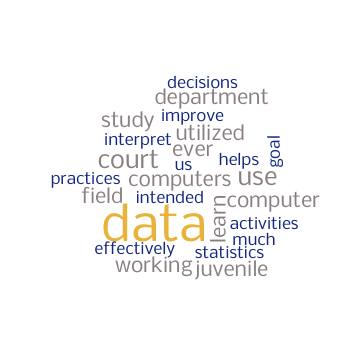
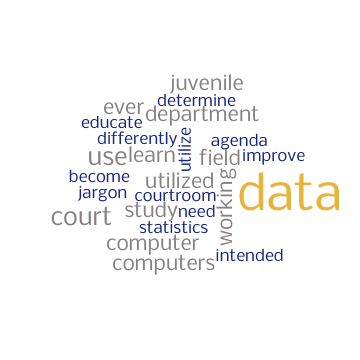
33% complete with base renovation

Changed region(s): [[0.1222, 0.2139, 0.9472, 0.7944]]

diff --git a/slides_on_data.html b/slides_on_data.html
@@ -16,34 +16,12 @@
 class: title-slide
 class: inverse, center
 # Data Literacy for Court Staff
-## OR Data 101 for Court Staff
+## Or Data 101: An E-Learning for Juvenile Probation Staff
 
 
 .center[*Sit back, relax. The training is about to begin!*]
 
-.center[&lt;iframe width="560" height="315" src="https://www.youtube.com/embed/videoseries?list=PLlcpS_fiQECCWSmK5Uom236PXE6hEVz22" frameborder="0" allow="autoplay; encrypted-media" allowfullscreen&gt;&lt;/iframe&gt;]
 
-.bottom[.right[Thursday, October 04 2018]]
-
-
-???
-YouTube is for set up me, really.
-# Materials needed for in-person training:
-* paper for notes/exercises
-* 5 + attendees copy of bad spreadsheet data
-
----
-class: inverse
-
-# Icebreaker Activity
-* Line up according to birthday: Month, Day (no need for age)
-
-* No VERBAL or WRITTEN communication allowed
-
-.center[![:scale 55%](imgs/icebreaker.jpg)]
-???
-1) Discuss importance of communication
-2) lighten the mood
 ---
 .center[#Learning Objectives:]
 
@@ -58,10 +36,7 @@ class: inverse
 *  What we can do to improve our Data Quality
 
 *  To discover what you want to learn next
-???
-Icebreaker Exercise instructions: 
-* Have everyone line up by birthday, descending, without speaking
-* the point is to illustrate how critical language is to easy exchange of knowledge 
+
 ---
 .center[# Expectations]
 .center[![](imgs/schoolHouseRock.gif)]
@@ -70,50 +45,68 @@ Icebreaker Exercise instructions:
 .bottom[.center[What do **you** want to learn today?]]
 ---
 class: center
+# Your Registration Data&lt;sup&gt;1&lt;/sup&gt;
+
+&lt;img src="slides_on_data_files/figure-html/word_cloud-1.png" style="display: block; margin: auto;" /&gt;
+
+.footnote[
+#####[1]From a total of 12 registrants.]
+
+???
+* Wordcloud for discussion of metric and data
+* illustrates expectations
+---
+class: center
 # What Is Data? 
 .center[![:scale 70%](imgs/howdoyouusedata.gif)]
 
 .bottom[.center[What questions do you have about data and the court?]]
+???
+First item im quiz: Ask them what they wanted to learn.
 ---
 class: center, middle
-# The Bro-Map
+## The Bro-Map
 
 
 .center[![:scale 110%](imgs/bro.gif)]
 
 ---
-### Exercise: How do you use data?
+## The Bro-Map!
 
-{{content}}
+* Takes multiple kinds of data
+  * GPS
+  * Natural Language/Linguistic
+  * Maps!
+  
+* Creates new information
+  * What slang do we tend to use
+  
+* How could this be useful?
+  * Marketers
+  * Demographers/Researchers
+     * Examining how concepts spread through the culture
+---
+# This is Data Science
 
 
---
 
-* At your table.
+.pull-left[![:scale 100%](imgs/data_action.png)]
 
-* Take the allotted time to note how you use personal **or** probation data.
+.pull-right[
+* Taking new forms of data
 
-* Write it down!
+* Creating new forms of information
 
-  + You will need it soon!
+* Which foster new insight
 
-???
-* 10-15 minutes
-* remind them to hold on to this
-* materials required will include: Paper!
+* Which direct actions
+
+* That have better results
+]
+
 ---
 class: center
-# Sharing is Caring
-.center[![:scale 59%](imgs/sharingiscaring.jpg)]
-
-
-.center[## Who wants to share how they use data?]
-
-???
-* Ask staff to share how they use data
----
-class: center
-# Data or Information
+# Data or Information: What's the Difference?
   
 .left[Data: 
 * Facts, figures, and other abstract representations of the world
@@ -143,41 +136,43 @@ class: center
 
       - [Far From Perfect Model](https://www.npr.org/templates/story/story.php?storyId=106268439)]
 ---
-# Data or Information
+# Data Vs Experience
 
-* Exercise: Revisit the *How do you use data.*
+* **This is a false choice**
+  * Personal Experience is personal data
+  
+  * Properly collected data represents multiple views
+  
+  * If personal experience varies from the data, it leads to a great question
+  
+  * **Why?**
+  
+---
+# Data Vs Experience
 
-* Reclassify items as "Data or Information"
+* Ignore data and information at your peril
 
-.center[![:scale 55%](imgs/classification.jpg)]
+--
+* Being critical of data collection and transformation is increasingly important in our society
+
+* Your expeirences are vital to the discussion. So is the data.
+
+--
+
+.center[![](imgs/NDG.gif)]
+
 ---
 # How much data do we need?
---
 
-
-* Pros and cons of Personal Experience
---
-
-
-* Professional/Clinical Judgment
---
-
-
-  + *Challenging either can be easily interpreted as a personal attack*
---
- 
-  + *Why not just collect all the data?*
- 
+* Why not just collect all the data?
+  * Security
+  * Cost in processing
  
 * **A better question is: What data do we need?**    
 
 
 .center[![](imgs/toomuch.gif)]
-???
-* Point is to break down the difference between Data and Information
-* Encourage the development of data driven culture
-* address the elephant in the room: Why do we think we don't need data?
- 
+
 ---
 class: center
 # The Language of Data
@@ -189,18 +184,7 @@ class: center
 ???
 reinforce data as new language
 ---
-class: center
-# Your Registration Data&lt;sup&gt;1&lt;/sup&gt;
 
-&lt;img src="slides_on_data_files/figure-html/word_cloud-1.png" style="display: block; margin: auto;" /&gt;
-
-.footnote[
-#####[1]From a total of 12 registrants.]
-
-???
-* Wordcloud for discussion of metric and data
-* illustrates expectations
----
 # Types of Data
 ## Quantitative
 
